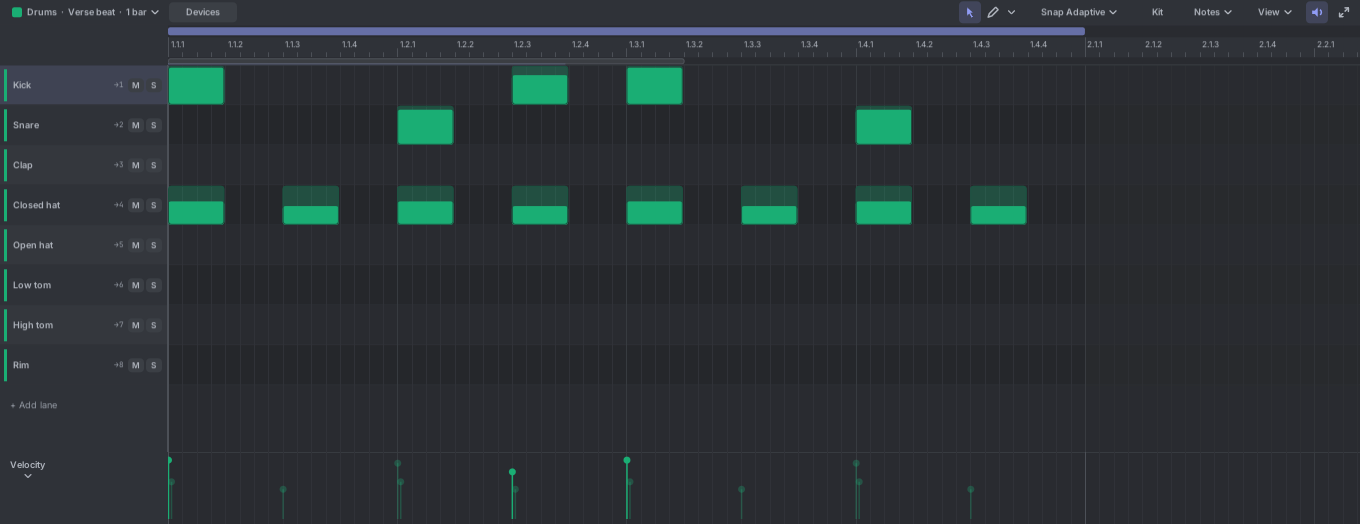
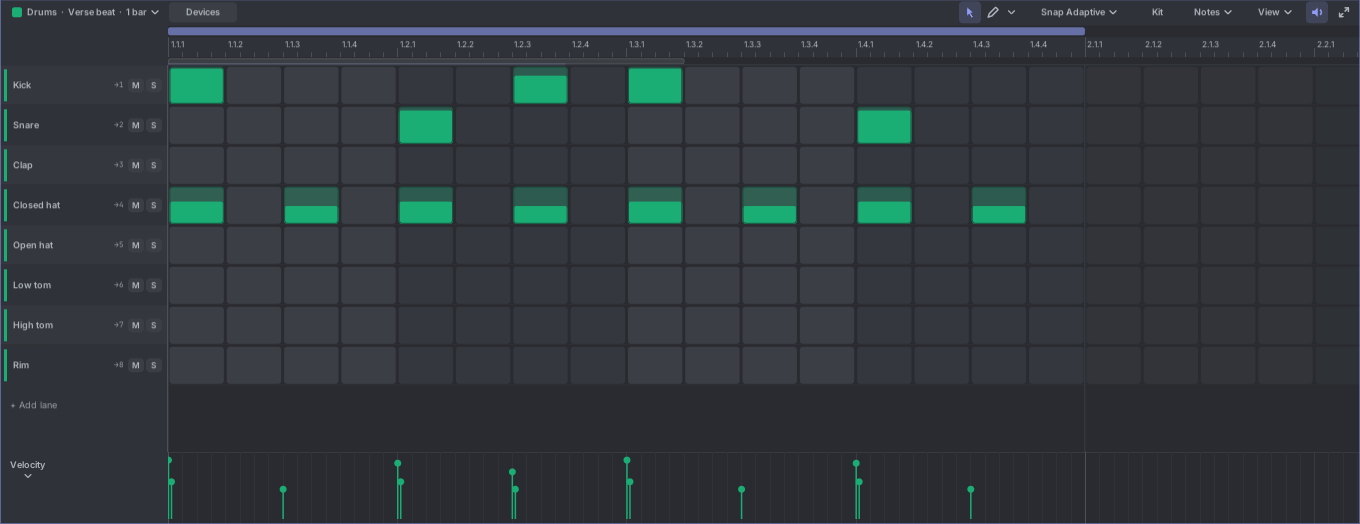
Draw every drum lane step as a cell, beats shaded in turn, as the step grid did

diff --git a/src/ui/views/NoteGrid.cpp b/src/ui/views/NoteGrid.cpp
@@ -156,6 +156,9 @@ void NoteGrid::step() {
             for (int r = 0; r < owner.pitch.rowCount(); r++)
                 key = hashMix(key, double(owner.pitch.pitchAtRow(r)));
         key = hashMix(key, owner.drumMode() ? 1 : 0);
+        if (const Track* t = owner.track(); t && owner.drumMode())
+            for (const DrumLane& l : t->drumLanes)
+                key = hashMix(key, double(l.stepLength));
     }
     layer->setKey(key);
     TimelineView::step();
@@ -800,9 +803,9 @@ void NoteGrid::paintGrid(NVGcontext* vg, Vec size) {
         NVGcolor fill = isBlackKey(p) ? theme::recessed(c, c.bg0, 0.14f) : light;
         bool octave = p % 12 == 0;
         if (drum) {
-            // Lanes alternate like their headers; a row of notes on no lane is sunk, since they don't play.
-            int lane = laneOfPitch(track->drumLanes, p);
-            fill = lane < 0 ? theme::recessed(c, c.bg0, 0.3f) : lane % 2 ? theme::recessed(c, c.bg0, 0.1f) : light;
+            // The steps draw the lanes' structure (paintDrumSteps); a row of notes on no lane is sunk, since they
+            // don't play.
+            fill = laneOfPitch(track->drumLanes, p) < 0 ? theme::recessed(c, c.bg0, 0.3f) : light;
             octave = false;
         }
         if (highlight) {
@@ -820,7 +823,10 @@ void NoteGrid::paintGrid(NVGcontext* vg, Vec size) {
         nvgFillColor(vg, octave ? c.line1 : nvgTransRGBAf(c.line0, 0.6f));
         nvgFill(vg);
     }
-    timeline::drawGrid(vg, time(), owner.timeSig(), size.y, owner.snapStep());
+    if (drum)
+        paintDrumSteps(vg, size);
+    else
+        timeline::drawGrid(vg, time(), owner.timeSig(), size.y, owner.snapStep());
 
     // Content outside the clip loop is dimmed. Without a loop every note plays, so nothing is.
     if (!owner.source.loopOn())
@@ -833,6 +839,46 @@ void NoteGrid::paintGrid(NVGcontext* vg, Vec size) {
     if (loopX1 < size.x)
         nvgRect(vg, std::max(0.f, loopX1), 0, size.x - std::max(0.f, loopX1), size.y);
     nvgFillColor(vg, nvgTransRGBAf(c.bg0, 0.55f));
+    nvgFill(vg);
+}
+
+void NoteGrid::paintDrumSteps(NVGcontext* vg, Vec size) {
+    const theme::Palette& c = theme::colors();
+    const Track* track = owner.track();
+    PitchAxis& pitch = owner.pitch;
+    TimeAxis& t = time();
+    float row = float(pitch.rowHeight());
+    float inset = theme::metrics::kDrumCellInset;
+    TimeSig ts = owner.timeSig();
+    Tick beat = std::max<Tick>(1, ticksPerBeat(ts)), bar = std::max<Tick>(1, ticksPerBar(ts));
+    double left = std::max(0.0, t.left()), right = t.right();
+    // Every step of a lane is a cell, as on a step sequencer; beats alternate light and dark so the count reads at
+    // a glance. Zoomed out too far for cells, the beats still alternate as bands.
+    NVGcolor light = nvgLerpRGBA(c.bg1, c.bg2, 1.f), dark = nvgLerpRGBA(c.bg1, c.bg2, 0.45f);
+    for (const DrumLane& l : track->drumLanes) {
+        float y = float(pitch.pitchToY(l.pitch));
+        if (!pitch.shown(l.pitch) || y + row < 0 || y > size.y)
+            continue;
+        Tick step = std::max<Tick>(1, l.stepLength);
+        float cellW = float(double(step) * t.pxPerTick());
+        bool cells = cellW >= theme::metrics::kDrumMinCell && row >= 2 * inset + 2;
+        Tick unit = cells ? step : beat;
+        for (Tick k = Tick(left / double(unit)); double(k * unit) < right; k++) {
+            Tick start = k * unit;
+            float x0 = float(t.tickToX(double(start))), x1 = float(t.tickToX(double(start + unit)));
+            NVGcolor fill = (start / beat) % 2 == 0 ? light : dark;
+            if (cells)
+                draw::roundedRect(vg, Rect(x0 + inset, y + inset, std::max(1.f, x1 - x0 - 2 * inset), row - 2 * inset),
+                                  std::min(theme::metrics::kRadiusItem, row / 4), fill);
+            else
+                draw::roundedRect(vg, Rect(x0, y + inset, x1 - x0, row - 2 * inset), 0, fill);
+        }
+    }
+    // Bar lines run through the gaps between the cells, so the bars stay countable.
+    nvgBeginPath(vg);
+    for (Tick b = Tick(left / double(bar)) * bar; double(b) < right; b += bar)
+        nvgRect(vg, std::round(float(t.tickToX(double(b)))) - 0.5f, 0, 1, size.y);
+    nvgFillColor(vg, c.line1);
     nvgFill(vg);
 }
 
@@ -932,6 +978,10 @@ void NoteGrid::drawNotes(NVGcontext* vg) {
         float x0 = float(t.tickToX(double(n.start)));
         float x1 = float(t.tickToX(double(n.end())));
         Rect r(x0, y + 0.5f, std::max(2.f, x1 - x0 - 1), row - 1);
+        if (drum) {
+            float inset = theme::metrics::kDrumCellInset;
+            r = Rect(x0 + inset, y + inset, std::max(2.f, x1 - x0 - 2 * inset), std::max(2.f, row - 2 * inset));
+        }
         bool isSelected = selected.count(n.id) > 0;
 
         // Brightness follows velocity (40-100%); selected notes are a little brighter, hovered ones too.

diff --git a/src/ui/Theme.hpp b/src/ui/Theme.hpp
@@ -117,6 +117,8 @@ constexpr float kDrumHeaderWidth = 168;
 constexpr float kDrumHeaderWidthPanel = 124;
 constexpr float kDrumMinRow = 22; // lanes open at least this tall, so the names stay readable
 constexpr float kDrumMinRowPanel = 16;
+constexpr float kDrumCellInset = 1.5f; // the gap around each step cell, so steps read one by one
+constexpr float kDrumMinCell = 5;      // narrower steps draw as beat bands instead of cells
 constexpr float kInspectorWidth = 240;
 constexpr float kPaneHeader = 26;
 constexpr float kReadoutOffset = 16; // readout pill distance from the cursor

diff --git a/src/ui/views/NoteGrid.hpp b/src/ui/views/NoteGrid.hpp
@@ -76,6 +76,8 @@ class NoteGrid : public TimelineView {
     void openSliceMenu(NoteId id);
 
     void paintGrid(NVGcontext* vg, rack::math::Vec size);
+    /// A drum track's grid: every step of each lane as a cell, beats shaded in turn, bar lines in the gaps.
+    void paintDrumSteps(NVGcontext* vg, rack::math::Vec size);
     void drawNotes(NVGcontext* vg);
     /// Ghost notes: one other note, drawn as an outline, with where it lives.
     struct Ghost {

diff --git a/docs/EDITOR_UX.md b/docs/EDITOR_UX.md
@@ -296,7 +296,8 @@ instead of pitch rows (DESIGN.md §9). Differences:
   right-click for the lane menu. Rows keep the lanes' order; notes on no lane get a "(no lane)" row below.
 - Draw (and Paint): click an empty step to add a hit one lane step long, click a hit to remove it, drag to paint or
   remove along the path. Alt+drag a hit sets its velocity. With adaptive snap, hits use the lane's own rate.
-- A hit is drawn as a step cell filled to its velocity. Muted and solo-silenced lanes are dimmed.
+- Every step of a lane is drawn as a cell at the lane's rate, beats shaded in turn, bar lines in the gaps (beat bands
+  when cells would be under 5 px). A hit fills its cell to its velocity. Muted and solo-silenced lanes are dimmed.
 - Lanes with their own loop (polymeter) show a line where it ends, then faded repeats until the clip loop ends.
 - The velocity lane edits the lane last clicked when nothing is selected; the others are faded.
 - The header has Kit where the key chip is. The note menu adds the hit operators (velocity, chance, repeats,

diff --git a/docs/manual/09-drums.md b/docs/manual/09-drums.md
@@ -8,8 +8,10 @@ lanes on the left instead of the keys.
 
 ## The drum editor
 
-- Each row is a lane, in the lanes' own order. Each hit is a note on that lane.
-- A hit is filled from the bottom: the higher the fill, the louder the velocity.
+- Each row is a lane, in the lanes' own order. Each cell is a step of the lane, 16 to a bar by default. Beats are
+  shaded light and dark in turn, so you can count them at a glance.
+- A hit sits in its step, filled from the bottom: the higher the fill, the louder the velocity.
+- Zoomed far out, the steps are too small for cells and the beats show as bands.
 - The lane header shows the lane's name, its output ("→1"), and **M** (mute) and **S** (solo). Muted lanes are dimmed.
 - **Click a lane's name** to hear it. **Ctrl+click** it to select all its hits.
 - Under the grid, the velocity lane shows the hits of the lane you clicked last. The other lanes' hits are faded.

diff --git a/docs/QA.md b/docs/QA.md
@@ -178,6 +178,8 @@ Run before each milestone commit. Items marked *(later)* become testable in the 
 ## Drum tracks
 - [ ] Select a drum track: the drum editor opens (the piano roll with lane headers, lanes in their own order,
       Kit where the key chip is). No "Steps | Piano roll" switch; G does nothing here.
+- [ ] Every lane step is a cell (beats shaded in turn, bar lines between cells); a lane at 1/8T shows triplet
+      cells; zoomed far out the cells become beat bands.
 - [ ] Zoom and scroll as in the piano roll: Ctrl/Cmd+wheel, = and -, F fits all lanes from the top. Zoom out past
       the clip's end and scroll on.
 - [ ] Draw tool: click an empty step adds a hit (one lane step long, last velocity), click a hit removes it, drag

diff --git a/docs/DECISIONS.md b/docs/DECISIONS.md
@@ -1229,6 +1229,8 @@ Refines §78.
   lanes' order. It zooms and scrolls like the piano roll, past the end of the clip.
 - **Drawing past the end grows the clip** to the end of that bar (the rule of §70), so a pattern gets longer by
   drawing into it.
+- **It still looks like a step sequencer:** every step of each lane is a cell, beats shaded in turn, with a gap around
+  each cell, as the step grid had (zoomed far out, beat bands).
 - **Draw keeps the step feel:** a click toggles a hit, a drag paints hits along the path, a press on a hit removes
   the hits passed. Hits are one lane step long. With adaptive snap they land on the lane's own rate; a fixed snap
   draws finer.
